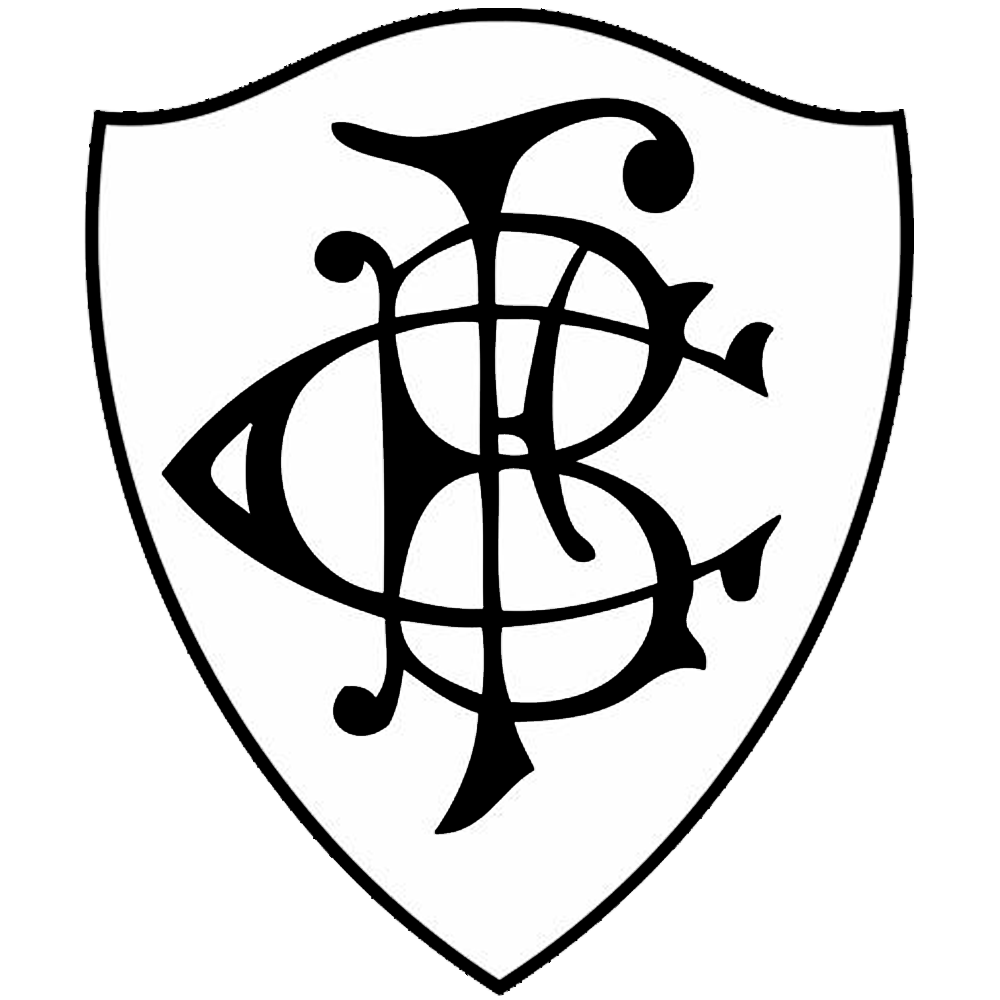
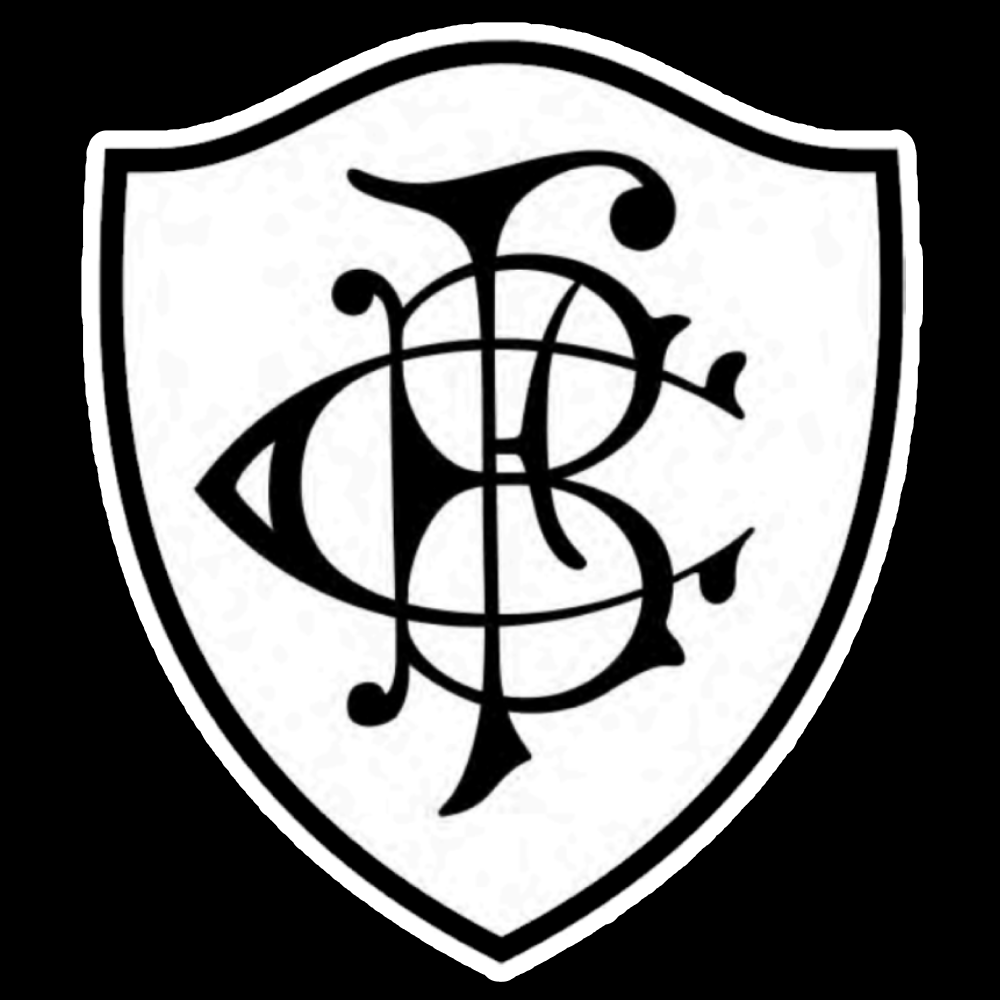
layout changes

diff --git a/src/components/LinhaJogo.js b/src/components/LinhaJogo.js
@@ -126,7 +126,7 @@ class LinhaJogo extends Component {
                     <div style={{ paddingTop: '1%', display: 'inline', minWidth: this.props.jogo.golsMandante === "" && this.props.jogo.golsVisitante === "" ? "40px" : "90px", textAlign: "center", fontSize: '2em', textShadow: "0 0 3px #000000, 0 0 3px #000000, 0 0 3px #000000, 0 0 3px #000000, 0 0 3px #000000", color: "white" }}>
                         {(this.props.jogo.golsMandante === "WO" || this.props.jogo.golsVisitante === "WO") && <div>WO</div>}
                         {this.props.jogo.golsMandante === "WO" ? <div>←</div> : this.props.jogo.golsVisitante === "WO" ? <div>→</div> : ''}
-                        {this.props.jogo.golsMandante !== "WO" && this.props.jogo.golsVisitante !== "WO" && this.props.jogo.golsMandante === "" && this.props.jogo.golsVisitante === "" && <p className="horario" style={{ fontSize: "15px", paddingTop: "8px" }}>{this.props.jogo.horario ? this.props.jogo.horario : " X "}</p>}
+                        {this.props.jogo.golsMandante !== "WO" && this.props.jogo.golsVisitante !== "WO" && this.props.jogo.golsMandante === "" && this.props.jogo.golsVisitante === "" && <p className="horario" style={{ fontSize: "15px", paddingTop: "20%", minWidth: "41px" }}>{this.props.jogo.horario ? this.props.jogo.horario : " X "}</p>}
                         {this.props.jogo.golsMandante !== "WO" && this.props.jogo.golsVisitante !== "WO" && this.props.jogo.golsMandante !== "" && this.props.jogo.golsVisitante !== "" && ' ' + this.props.jogo.golsMandante + ' x ' + this.props.jogo.golsVisitante + ' '}
                     </div>
                     <img className='escudoLinha' src={require('../escudos/' + Times(this.props.jogo.visitante, this.props.jogo.data).escudo + '.png')} title={this.props.jogo.visitante} style={{ display: 'inline-block', verticalAlign: 'middle' }} alt={this.props.jogo.visitante} />

diff --git a/src/App.js b/src/App.js
@@ -18,17 +18,19 @@ function App() {
   );
   usuario = usuario[0];
   //getHenriqueJogos(usuario);
+  document.body.style = 'background: black;';
 
   return (
     <>
       <Router>
-        <Navbar conjuntoUsuarios={conjuntoUsuarios} meuTime={"Botafogo"} meusJogos={conjuntoUsuarios.getUsuarioAtual().meusJogos} style={{ position: 'fixed' }} />
+        {/*<Navbar conjuntoUsuarios={conjuntoUsuarios} meuTime={"Botafogo"} meusJogos={conjuntoUsuarios.getUsuarioAtual().meusJogos} style={{ position: 'fixed' }} />*/}
         <Routes>
           <Route exact path='/jogosquefui' element={<Perfil
                         conjuntoUsuarios={conjuntoUsuarios}
                         meuTime="Botafogo"
                         meusJogos={BotafogoJogos()}
                     />}
+                    style={{backgroundColor: "black"}}
           />
         </Routes>
       </Router>

diff --git a/src/pages/Perfil.js b/src/pages/Perfil.js
@@ -16,7 +16,7 @@ function Perfil(props) {
         <div style={{ margin: '20px' }}>
           <p style={{ display: 'inline', color: Times(props.meuTime).letterColor }}>
           {/* {props.conjuntoUsuarios.getUsuarioAtual().getNome().toUpperCase()} {props.conjuntoUsuarios.getUsuarioAtual().getSobrenome().toUpperCase()} */}
-          HENRIQUE FILHO
+          Botafogo de Futebol e Regatas
           </p>
         </div>
           <img src={require('../escudos/' + Times(props.meuTime).escudo + '.png')} className="App-logo" alt={"Escudo do " + props.meuTime} style={{ verticalAlign: 'middle', width: '100px', height: '100px' }} />

diff --git a/src/components/Tabs.js b/src/components/Tabs.js
@@ -94,7 +94,7 @@ class Tabs extends Component {
                         </div>
                         {ultimos === 1 ? 
                         <div className="container" style={{ color: "white", backgroundColor: 'black'}}>
-                            <Estatisticas meuTime={meuTime} jogos={meusJogos} />
+                            {/*<Estatisticas meuTime={meuTime} jogos={meusJogos} />*/}
                             {meusJogos.length > 0 ? currentItems.map((index) => {
                                 let mostraAno = false;
                                 if (anoAtual !== index.data.split("-")[0]) {
